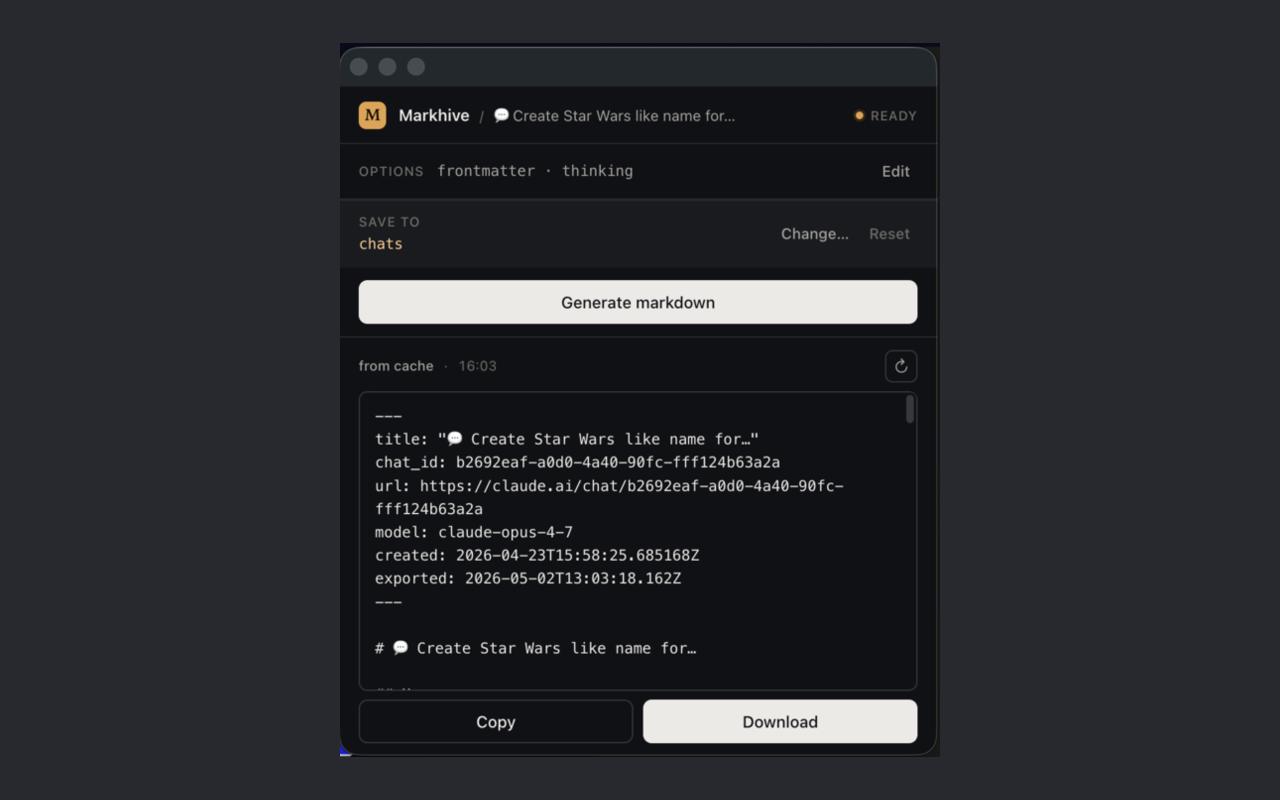
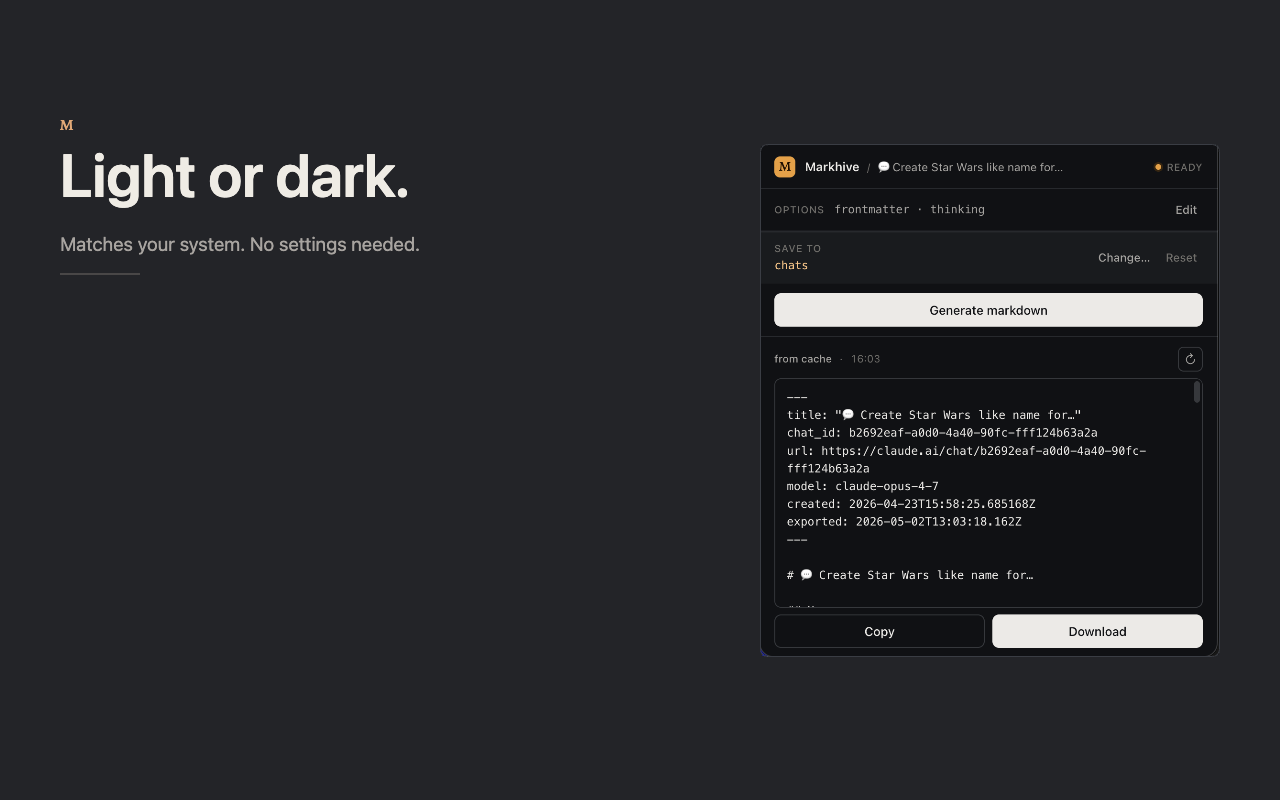
chore(store): replace listing screenshots with branded designs
Five 1280x800 slides with headline + cleaned popup, replacing the earlier
auto-padded screenshots:

  01-hero-preview-light  "Your Claude chats, as Markdown."
  02-ready-light         "Pick what to keep."
  03-preview-dark        "Light or dark."
  04-error-toast         "Knows when to stay quiet."
  05-folder-picker       "Saves where you tell it."

diff --git a/store-assets/README.md b/store-assets/README.md
@@ -1,17 +1,13 @@
 # Chrome Web Store assets
 
-Six 1280×800 PNGs ready to upload as listing screenshots. Pick up to 5 (the store's max).
+Five 1280×800 PNGs ready to upload as listing screenshots, in display order.
 
-| File | State | Theme |
-| --- | --- | --- |
-| `01-ready-light.png` | Ready, no preview | Light |
-| `02-preview-light.png` | Preview shown after Generate | Light |
-| `03-preview-dark.png` | Preview shown after Generate | Dark |
-| `04-idle-toast-light.png` | Idle / non-chat URL with error toast | Light |
-| `05-idle-toast-dark.png` | Idle / non-chat URL with error toast | Dark |
-| `06-ready-dark.png` | Ready, no preview | Dark |
+| # | File | Headline | Theme |
+| --- | --- | --- | --- |
+| 1 | `01-hero-preview-light.png` | Your Claude chats, as Markdown. | Light |
+| 2 | `02-ready-light.png` | Pick what to keep. | Light |
+| 3 | `03-preview-dark.png` | Light or dark. | Dark |
+| 4 | `04-error-toast.png` | Knows when to stay quiet. | Light |
+| 5 | `05-folder-picker.png` | Saves where you tell it. | Light |
 
-**Recommended upload order** for the listing (5 of 6):
-`02 → 01 → 03 → 04 → 05`. Hero shot first (preview light), then ready light, then dark preview to prove dark mode, then both toast variants.
-
-The store icon is `icons/128.png` in the repo root - no separate asset needed.
+Upload these in order in the Chrome Web Store dev console. The store icon is `icons/128.png` in the repo root - no separate asset needed.
